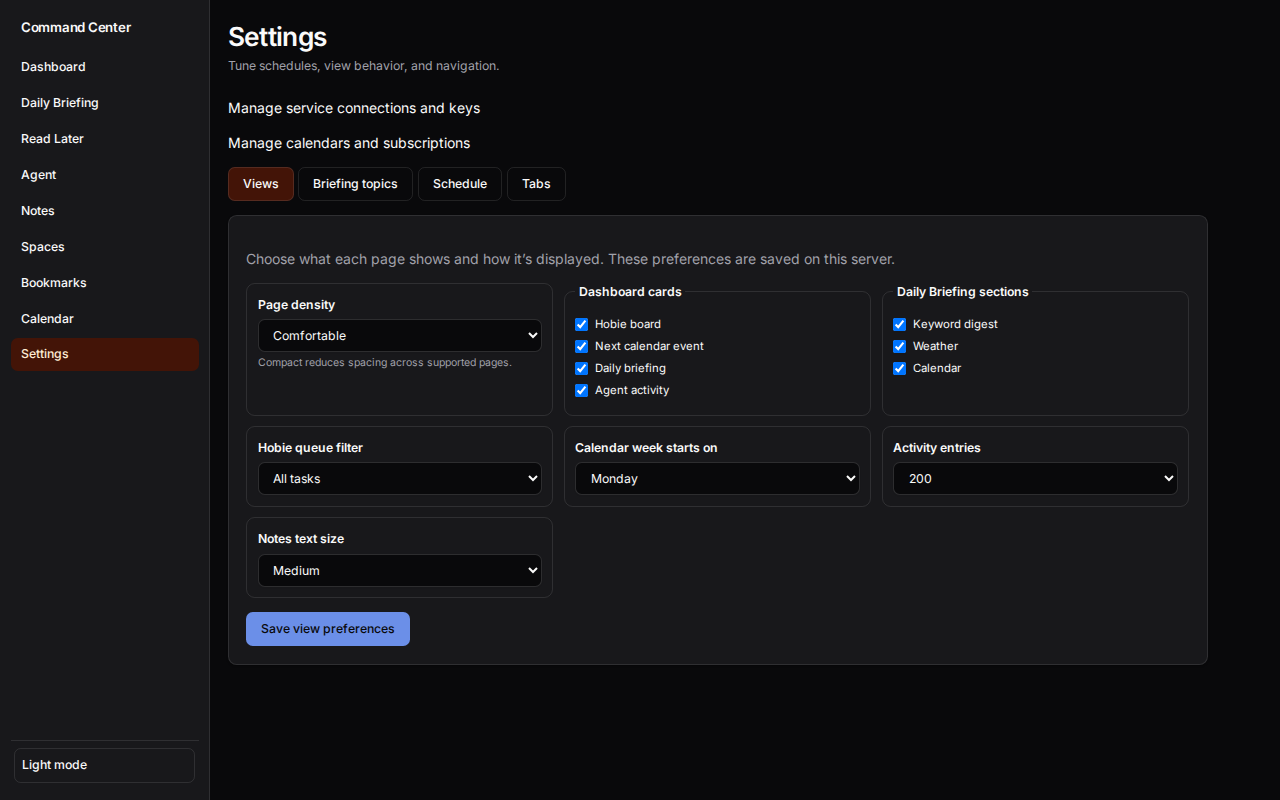
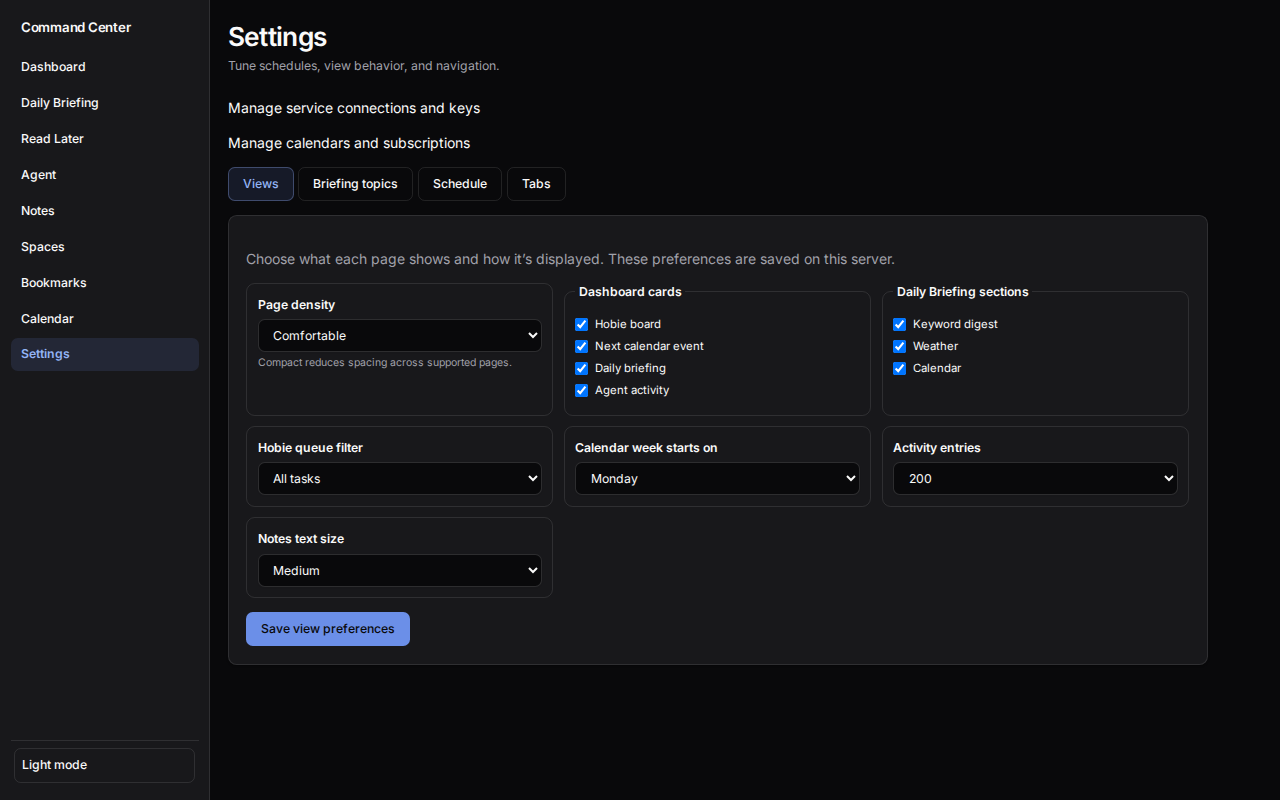
Theme: royal selected states, orange for attention/warning only
Add --selected and --sidebar-primary tokens; route active nav, chips, and
pressed controls through royal tints. Fix dark sidebar tan active state.
Highlight attention overdue copy with --warning. Re-capture after screenshots.

Changed region(s): [[0.0, 0.4062, 0.1562, 0.4688], [0.1562, 0.1875, 0.25, 0.25]]

diff --git a/apps/server/src/ui/layout.ts b/apps/server/src/ui/layout.ts
@@ -35,7 +35,7 @@ code{font-size:.875em;background:var(--muted);padding:.1em .35em;border-radius:c
   display:flex;align-items:center;gap:.5rem;padding:.5rem .75rem;border-radius:calc(var(--radius) - 2px);
   font-size:.875rem;font-weight:500;color:var(--sidebar-foreground);transition:background .15s}
 .sidebar-nav a:hover{background:var(--sidebar-accent);color:var(--sidebar-accent-foreground)}
-.sidebar-nav a.on{background:var(--sidebar-accent);color:var(--sidebar-accent-foreground)}
+.sidebar-nav a.on{background:var(--sidebar-primary);color:var(--sidebar-primary-foreground);font-weight:600}
 .sidebar-footer{padding:.5rem .25rem;border-top:1px solid var(--sidebar-border);margin-top:.5rem}
 .app-main{flex:1;min-width:0;min-height:0;display:flex;flex-direction:column}
 .page-content{flex:1;padding:1.5rem 1.25rem 2rem;width:100%;max-width:90rem;margin:0 auto}
@@ -56,7 +56,9 @@ button,.btn{
   transition:opacity .15s}
 button:hover,.btn:hover{opacity:.92}
 button.ghost,.btn.ghost{background:transparent;color:var(--foreground);border-color:var(--border)}
-button.ghost:hover{background:var(--accent)}
+button.ghost:hover,.btn.ghost:hover{background:var(--accent)}
+button.ghost[aria-pressed=true],.btn.ghost[aria-pressed=true],button.ghost.on,.btn.ghost.on{
+  background:var(--selected);color:var(--selected-foreground);border-color:color-mix(in srgb,var(--primary) 28%,var(--border))}
 button.icon-btn{min-width:2.25rem;padding:.5rem}
 button:disabled{opacity:.5;cursor:default}
 label.field-label{display:block;margin:1rem 0 .35rem;font-size:.875rem;font-weight:500}
@@ -84,13 +86,14 @@ textarea{font-family:ui-monospace,Menlo,monospace;font-size:.8125rem;min-height:
 .status-pill{font-size:.7rem;font-weight:600;text-transform:uppercase;letter-spacing:.04em;padding:.2em .5em;border-radius:999px;border:1px solid var(--border);color:var(--muted-foreground)}
 .status-pill.ok{border-color:color-mix(in srgb,var(--ok) 40%,var(--border));color:var(--ok)}
 .status-pill.bad{border-color:color-mix(in srgb,var(--destructive) 40%,var(--border));color:var(--destructive)}
+.status-pill.warn{border-color:color-mix(in srgb,var(--warning) 45%,var(--border));color:var(--warning)}
 .status-pill.dim{opacity:.85}
 .feed-item{border-top:1px solid var(--border);padding:.75rem 0}.feed-item:first-child{border-top:0}
 .tag-chip-bar{display:flex;flex-wrap:wrap;gap:.5rem}
 .tag-chip{
   font:inherit;font-size:.75rem;font-weight:500;padding:.35rem .65rem;border-radius:999px;
   border:1px solid var(--border);background:var(--secondary);color:var(--secondary-foreground);cursor:pointer}
-.tag-chip.on{background:var(--primary);color:var(--primary-foreground);border-color:transparent}
+.tag-chip.on{background:var(--selected);color:var(--selected-foreground);border-color:color-mix(in srgb,var(--primary) 35%,var(--border))}
 .tag-chip.muted{opacity:.55;text-decoration:line-through}
 .tag-mini{font-size:.65rem;font-weight:600;padding:.15em .45em;border-radius:999px;background:var(--muted);color:var(--muted-foreground)}
 .todoist-list{list-style:none;margin:0;padding:0}
@@ -104,6 +107,7 @@ pre.briefing{
 .status-pill{font-size:.7rem;font-weight:600;text-transform:uppercase;letter-spacing:.04em;padding:.2em .5em;border-radius:999px;border:1px solid var(--border);color:var(--muted-foreground)}
 .status-pill.ok{border-color:color-mix(in srgb,var(--ok) 40%,var(--border));color:var(--ok)}
 .status-pill.bad{border-color:color-mix(in srgb,var(--destructive) 40%,var(--border));color:var(--destructive)}
+.status-pill.warn{border-color:color-mix(in srgb,var(--warning) 45%,var(--border));color:var(--warning)}
 .status-pill.dim{opacity:.85}
 pre.briefing.bad{color:var(--destructive);background:transparent;border-color:color-mix(in srgb,var(--destructive) 30%,var(--border))}
 .theme-toggle{width:100%;justify-content:flex-start}
@@ -112,7 +116,7 @@ pre.briefing.bad{color:var(--destructive);background:transparent;border-color:co
 .cal-day{border:1px solid var(--border);border-radius:calc(var(--radius) - 2px);padding:.5rem;min-height:5rem}
 .cal-ev{margin-bottom:.5rem;font-size:.8125rem}
 .settings-tabs{display:flex;gap:.35rem;margin-bottom:1rem;flex-wrap:wrap}
-.settings-tabs button.ghost.on{background:var(--sidebar-accent)}
+.settings-tabs button.ghost.on{background:var(--selected);color:var(--selected-foreground);border-color:color-mix(in srgb,var(--primary) 28%,var(--border))}
 .settings-tab-panel{display:none}.settings-tab-panel.on{display:block}
 .settings-options-grid{display:grid;grid-template-columns:repeat(auto-fit,minmax(min(100%,18rem),1fr));gap:.75rem}
 .settings-option{min-width:0;margin:0;padding:.75rem;border:1px solid var(--border);border-radius:var(--radius)}

diff --git a/apps/server/src/ui/notes-page.ts b/apps/server/src/ui/notes-page.ts
@@ -210,7 +210,7 @@ export function notesPage(nav?: NavLink[]): string {
 .notes-workspace [hidden]{display:none!important}
 .notes-document-tabs{display:flex;gap:.35rem;overflow:auto;padding:.5rem 0;border-bottom:1px solid var(--border)}
 .notes-document-tab{display:flex;flex-shrink:0;align-items:center;max-width:18rem}.notes-document-tab button{font-size:.8rem;min-height:2rem}
-.notes-document-tab button:first-child{overflow:hidden;text-overflow:ellipsis;white-space:nowrap;max-width:14rem}.notes-document-tab [aria-pressed=true]{background:var(--accent)}
+.notes-document-tab button:first-child{overflow:hidden;text-overflow:ellipsis;white-space:nowrap;max-width:14rem}.notes-document-tab [aria-pressed=true]{background:var(--selected);color:var(--selected-foreground)}
 .notes-recovery{padding:.75rem 0;border-bottom:1px solid var(--border);font-size:.8rem}.notes-recovery summary{cursor:pointer}
 .notes-recovery pre{white-space:pre-wrap;overflow-wrap:anywhere;max-height:16rem;overflow:auto}
 #knowledge-switcher{width:min(34rem,calc(100vw - 2rem));max-height:80vh}#knowledge-switch-results{max-height:50vh;overflow:auto}
@@ -223,7 +223,8 @@ export function notesPage(nav?: NavLink[]): string {
 .notes-library>label{margin-top:0}.notes-library-heading{display:flex;justify-content:space-between;align-items:center;margin:1.5rem 0 .5rem}.notes-library-heading h2{margin:0}
 .notes-all{width:100%;justify-content:flex-start;margin-bottom:.5rem}
 .notes-note{display:block;width:100%;text-align:left;background:transparent;color:var(--foreground);border:1px solid transparent;padding:.75rem;margin:.2rem 0}
-.notes-note:hover,.notes-note[aria-current=true]{background:var(--accent);border-color:var(--border)}
+.notes-note:hover{background:var(--accent);border-color:var(--border)}
+.notes-note[aria-current=true]{background:var(--selected);color:var(--selected-foreground);border-color:color-mix(in srgb,var(--primary) 28%,var(--border))}
 .notes-note strong,.notes-note span{display:block;overflow:hidden;text-overflow:ellipsis;white-space:nowrap}.notes-note span{font-size:.75rem;font-weight:400;margin-top:.2rem;color:var(--dim)}
 #knowledge-note-list{max-height:42vh;overflow:auto}.notes-library-section{padding:.85rem 0;border-top:1px solid var(--border);margin-top:.5rem}
 .notes-library summary,.notes-secondary>summary,.notes-properties>summary{cursor:pointer;font-weight:500}
@@ -231,7 +232,7 @@ export function notesPage(nav?: NavLink[]): string {
 .notes-editor-bar{display:flex;align-items:center;justify-content:space-between;gap:.75rem;border-bottom:1px solid var(--border);padding:.75rem 0;flex-wrap:wrap}
 .notes-editor-bar h2{margin:0;color:var(--dim);font-weight:400;overflow-wrap:anywhere}
 .notes-modes{display:flex;gap:.2rem}.notes-modes button{font-size:.75rem;padding:.3rem .6rem;min-height:2rem}
-.notes-modes button[aria-pressed=true]{background:var(--primary);color:var(--primary-foreground)}
+.notes-modes button[aria-pressed=true]{background:var(--selected);color:var(--selected-foreground);border-color:color-mix(in srgb,var(--primary) 28%,var(--border))}
 .notes-document{padding:1.5rem 0 .5rem;max-width:80rem;min-width:0;width:100%;margin:auto;border:0}
 input.notes-title{font-size:1.9rem;letter-spacing:-.035em;font-weight:600;border:0;box-shadow:none;padding:.25rem 0;background:transparent;border-radius:0}
 .notes-properties{padding:.75rem 0;margin-bottom:.75rem}.notes-properties summary{font-size:.8rem;color:var(--dim)}.notes-properties summary span{font-weight:400;margin-left:.5rem}

diff --git a/apps/server/src/ui/theme-tokens.ts b/apps/server/src/ui/theme-tokens.ts
@@ -6,6 +6,7 @@ export const THEME_LIGHT: ThemeTokens = {
   foreground: "#18181b",
   card: "#ffffff",
   "card-foreground": "#18181b",
+  // shortcut: #3b5fd9 is slightly deeper than royal #4169E1 for AA with white button text
   primary: "#3b5fd9",
   "primary-foreground": "#ffffff",
   secondary: "#f4f4f5",
@@ -23,11 +24,16 @@ export const THEME_LIGHT: ThemeTokens = {
   border: "#e4e4e7",
   input: "#e4e4e7",
   ring: "#3b5fd9",
+  // shortcut: ~13% primary mixed into surface (computed offline for SSR tokens)
+  selected: "#e1e6f6",
+  "selected-foreground": "#2f4fc4",
   sidebar: "#f4f4f5",
   "sidebar-foreground": "#18181b",
   "sidebar-border": "#e4e4e7",
-  "sidebar-accent": "#ffedd5",
-  "sidebar-accent-foreground": "#9a3412",
+  "sidebar-primary": "#dce0f1",
+  "sidebar-primary-foreground": "#2f4fc4",
+  "sidebar-accent": "#fff4e6",
+  "sidebar-accent-foreground": "#18181b",
   "chart-1": "#3b5fd9",
   "chart-2": "#6284e8",
   "chart-3": "#8fa8f0",
@@ -47,8 +53,8 @@ export const THEME_DARK: ThemeTokens = {
   "secondary-foreground": "#fafafa",
   muted: "#27272a",
   "muted-foreground": "#a1a1aa",
-  accent: "#431407",
-  "accent-foreground": "#ffedd5",
+  accent: "#2a2420",
+  "accent-foreground": "#fafafa",
   destructive: "#f87171",
   warning: "#fb923c",
   "warning-foreground": "#09090b",
@@ -57,11 +63,15 @@ export const THEME_DARK: ThemeTokens = {
   border: "rgba(255,255,255,0.1)",
   input: "rgba(255,255,255,0.15)",
   ring: "#6b8fe8",
+  selected: "#161a28",
+  "selected-foreground": "#93b4f5",
   sidebar: "#18181b",
   "sidebar-foreground": "#fafafa",
   "sidebar-border": "rgba(255,255,255,0.1)",
-  "sidebar-accent": "#431407",
-  "sidebar-accent-foreground": "#ffedd5",
+  "sidebar-primary": "#232736",
+  "sidebar-primary-foreground": "#93b4f5",
+  "sidebar-accent": "#2a2420",
+  "sidebar-accent-foreground": "#fafafa",
   "chart-1": "#6b8fe8",
   "chart-2": "#8fa8f0",
   "chart-3": "#3b5fd9",

diff --git a/apps/server/src/ui/workspace.ts b/apps/server/src/ui/workspace.ts
@@ -19,7 +19,7 @@ ${workspaceTabsCss}
 .library-controls label{font-size:.8rem;color:var(--muted-foreground)}
 .library-controls input,.library-controls select{margin:0;width:100%}
 .library-results{display:flex;justify-content:space-between;align-items:center;gap:1rem;margin:1.25rem 0 .5rem}
-.library-results button[aria-pressed=true]{background:var(--accent);border-color:var(--ring)}
+.library-results button[aria-pressed=true]{background:var(--selected);color:var(--selected-foreground);border-color:color-mix(in srgb,var(--primary) 28%,var(--border))}
 .library-items{border-top:1px solid var(--border)}
 .library-item{display:flex;gap:1rem;padding:1.5rem 0;border-bottom:1px solid var(--border);align-items:start;min-width:0}
 .library-domain-mark{display:grid;place-items:center;flex:0 0 2.5rem;height:2.5rem;background:var(--muted);border-radius:var(--radius);color:var(--muted-foreground);font-weight:600}
@@ -48,7 +48,7 @@ ${workspaceTabsCss}
 .reading-organizer nav{max-height:22rem;overflow:auto}
 .reading-folder{display:flex;justify-content:space-between;gap:.75rem;width:100%;text-align:left;background:none;color:var(--foreground);padding:.4rem .5rem;font-size:.85rem}
 .reading-folder span:first-child{overflow:hidden;text-overflow:ellipsis;white-space:nowrap}
-.reading-folder[aria-pressed=true]{background:var(--accent)}
+.reading-folder[aria-pressed=true]{background:var(--selected);color:var(--selected-foreground)}
 .reading-new-folder{margin-top:.75rem}
 .reading-new-folder summary{cursor:pointer;font-size:.85rem}
 .reading-new-folder input{width:100%;min-width:0}

diff --git a/apps/server/src/panels/attention.ts b/apps/server/src/panels/attention.ts
@@ -119,10 +119,12 @@ function renderAttention(data){
         +'<button type="button" class="ghost attention-snooze" data-id="'+esc(item.id)+'" title="Snooze">⏸</button>'
         +'<button type="button" class="ghost attention-hide" data-id="'+esc(item.id)+'" title="Don\\'t rediscover">✕</button>'
         +'</span>';
+      var warn=/overdue|due today/i.test(item.reason)?" attention-warn":"";
       return '<li class="todoist-item attention-item"><a href="'+esc(item.href)+'"><strong>'+esc(item.title)+'</strong></a>'
-        +'<div class="dim attention-reason">'+esc(item.reason)+'</div>'+controls+'</li>';
+        +'<div class="dim attention-reason'+warn+'">'+esc(item.reason)+'</div>'+controls+'</li>';
     }).join("");
-    return '<section class="attention-block"><h3>'+esc(section.title)+'</h3><ul class="todoist-list">'+items+'</ul></section>';
+    var blockCls=section.id==="due"?" attention-block-warn":"";
+    return '<section class="attention-block'+blockCls+'"><h3>'+esc(section.title)+'</h3><ul class="todoist-list">'+items+'</ul></section>';
   }).join("");
   root.querySelectorAll(".attention-pin").forEach(function(btn){
     btn.onclick=function(){attentionAction("/api/attention/pin",{id:btn.dataset.id,pinned:true});};

diff --git a/apps/server/src/ui/calendar-page.ts b/apps/server/src/ui/calendar-page.ts
@@ -89,7 +89,7 @@ html.dark .calendar-app{--calendar-red:#f3838b;--calendar-blue:#82b5f0;--calenda
 .calendar-toolbar{display:flex;align-items:center;justify-content:space-between;gap:.75rem;padding:1rem;border-bottom:1px solid var(--border);flex-wrap:wrap}
 .calendar-navigation{gap:.3rem}.calendar-toolbar button{font-size:.75rem;min-height:2rem;padding:.3rem .6rem}
 .calendar-navigation h2{margin:0 0 0 .5rem;font-size:1rem;line-height:1.4}
-.calendar-view-switch{display:flex;gap:.2rem}.calendar-view-switch button[aria-pressed=true]{background:var(--primary);color:var(--primary-foreground)}
+.calendar-view-switch{display:flex;gap:.2rem}.calendar-view-switch button[aria-pressed=true]{background:var(--selected);color:var(--selected-foreground);border-color:color-mix(in srgb,var(--primary) 28%,var(--border))}
 .calendar-status-row{display:flex;justify-content:space-between;gap:.5rem;align-items:center;padding:.5rem 1rem;font-size:.7rem}.calendar-status-row p{margin:0}
 .calendar-view{flex:1;min-width:0;overflow:auto;max-height:75vh}
 .calendar-month{display:grid;grid-template-columns:repeat(7,minmax(0,1fr));min-width:35rem}

diff --git a/apps/server/src/ui/dashboard-page.ts b/apps/server/src/ui/dashboard-page.ts
@@ -18,7 +18,9 @@ import { page, type NavLink } from "./layout";
 
 export const dashboardPanelCss = `
 .tasks-chips{display:flex;flex-wrap:wrap;gap:.35rem;margin-bottom:.35rem}
-.tasks-chip[aria-pressed=true]{background:var(--accent);border-color:var(--ring)}
+.tasks-chip[aria-pressed=true]{background:var(--selected);color:var(--selected-foreground);border-color:color-mix(in srgb,var(--primary) 35%,var(--border))}
+.attention-block-warn h3{color:var(--warning)}
+.attention-reason.attention-warn{color:var(--warning);font-weight:500}
 .attention-sections{display:flex;flex-direction:column;gap:.65rem}
 .attention-block h3{margin:0 0 .25rem;font-size:.8125rem;font-weight:600}
 .attention-item{position:relative;padding-right:4.5rem}

diff --git a/apps/server/test/theme-contrast.test.ts b/apps/server/test/theme-contrast.test.ts
@@ -52,6 +52,8 @@ const PAIRS: Array<{ fg: string; bg: string; label: string }> = [
   { fg: "warning-foreground", bg: "warning", label: "warning" },
   { fg: "attention-foreground", bg: "attention", label: "attention" },
   { fg: "destructive", bg: "background", label: "destructive text" },
+  { fg: "selected-foreground", bg: "selected", label: "selected control" },
+  { fg: "sidebar-primary-foreground", bg: "sidebar-primary", label: "sidebar active" },
 ];
 
 function assertThemeContrast(mode: string, tokens: ThemeTokens) {
